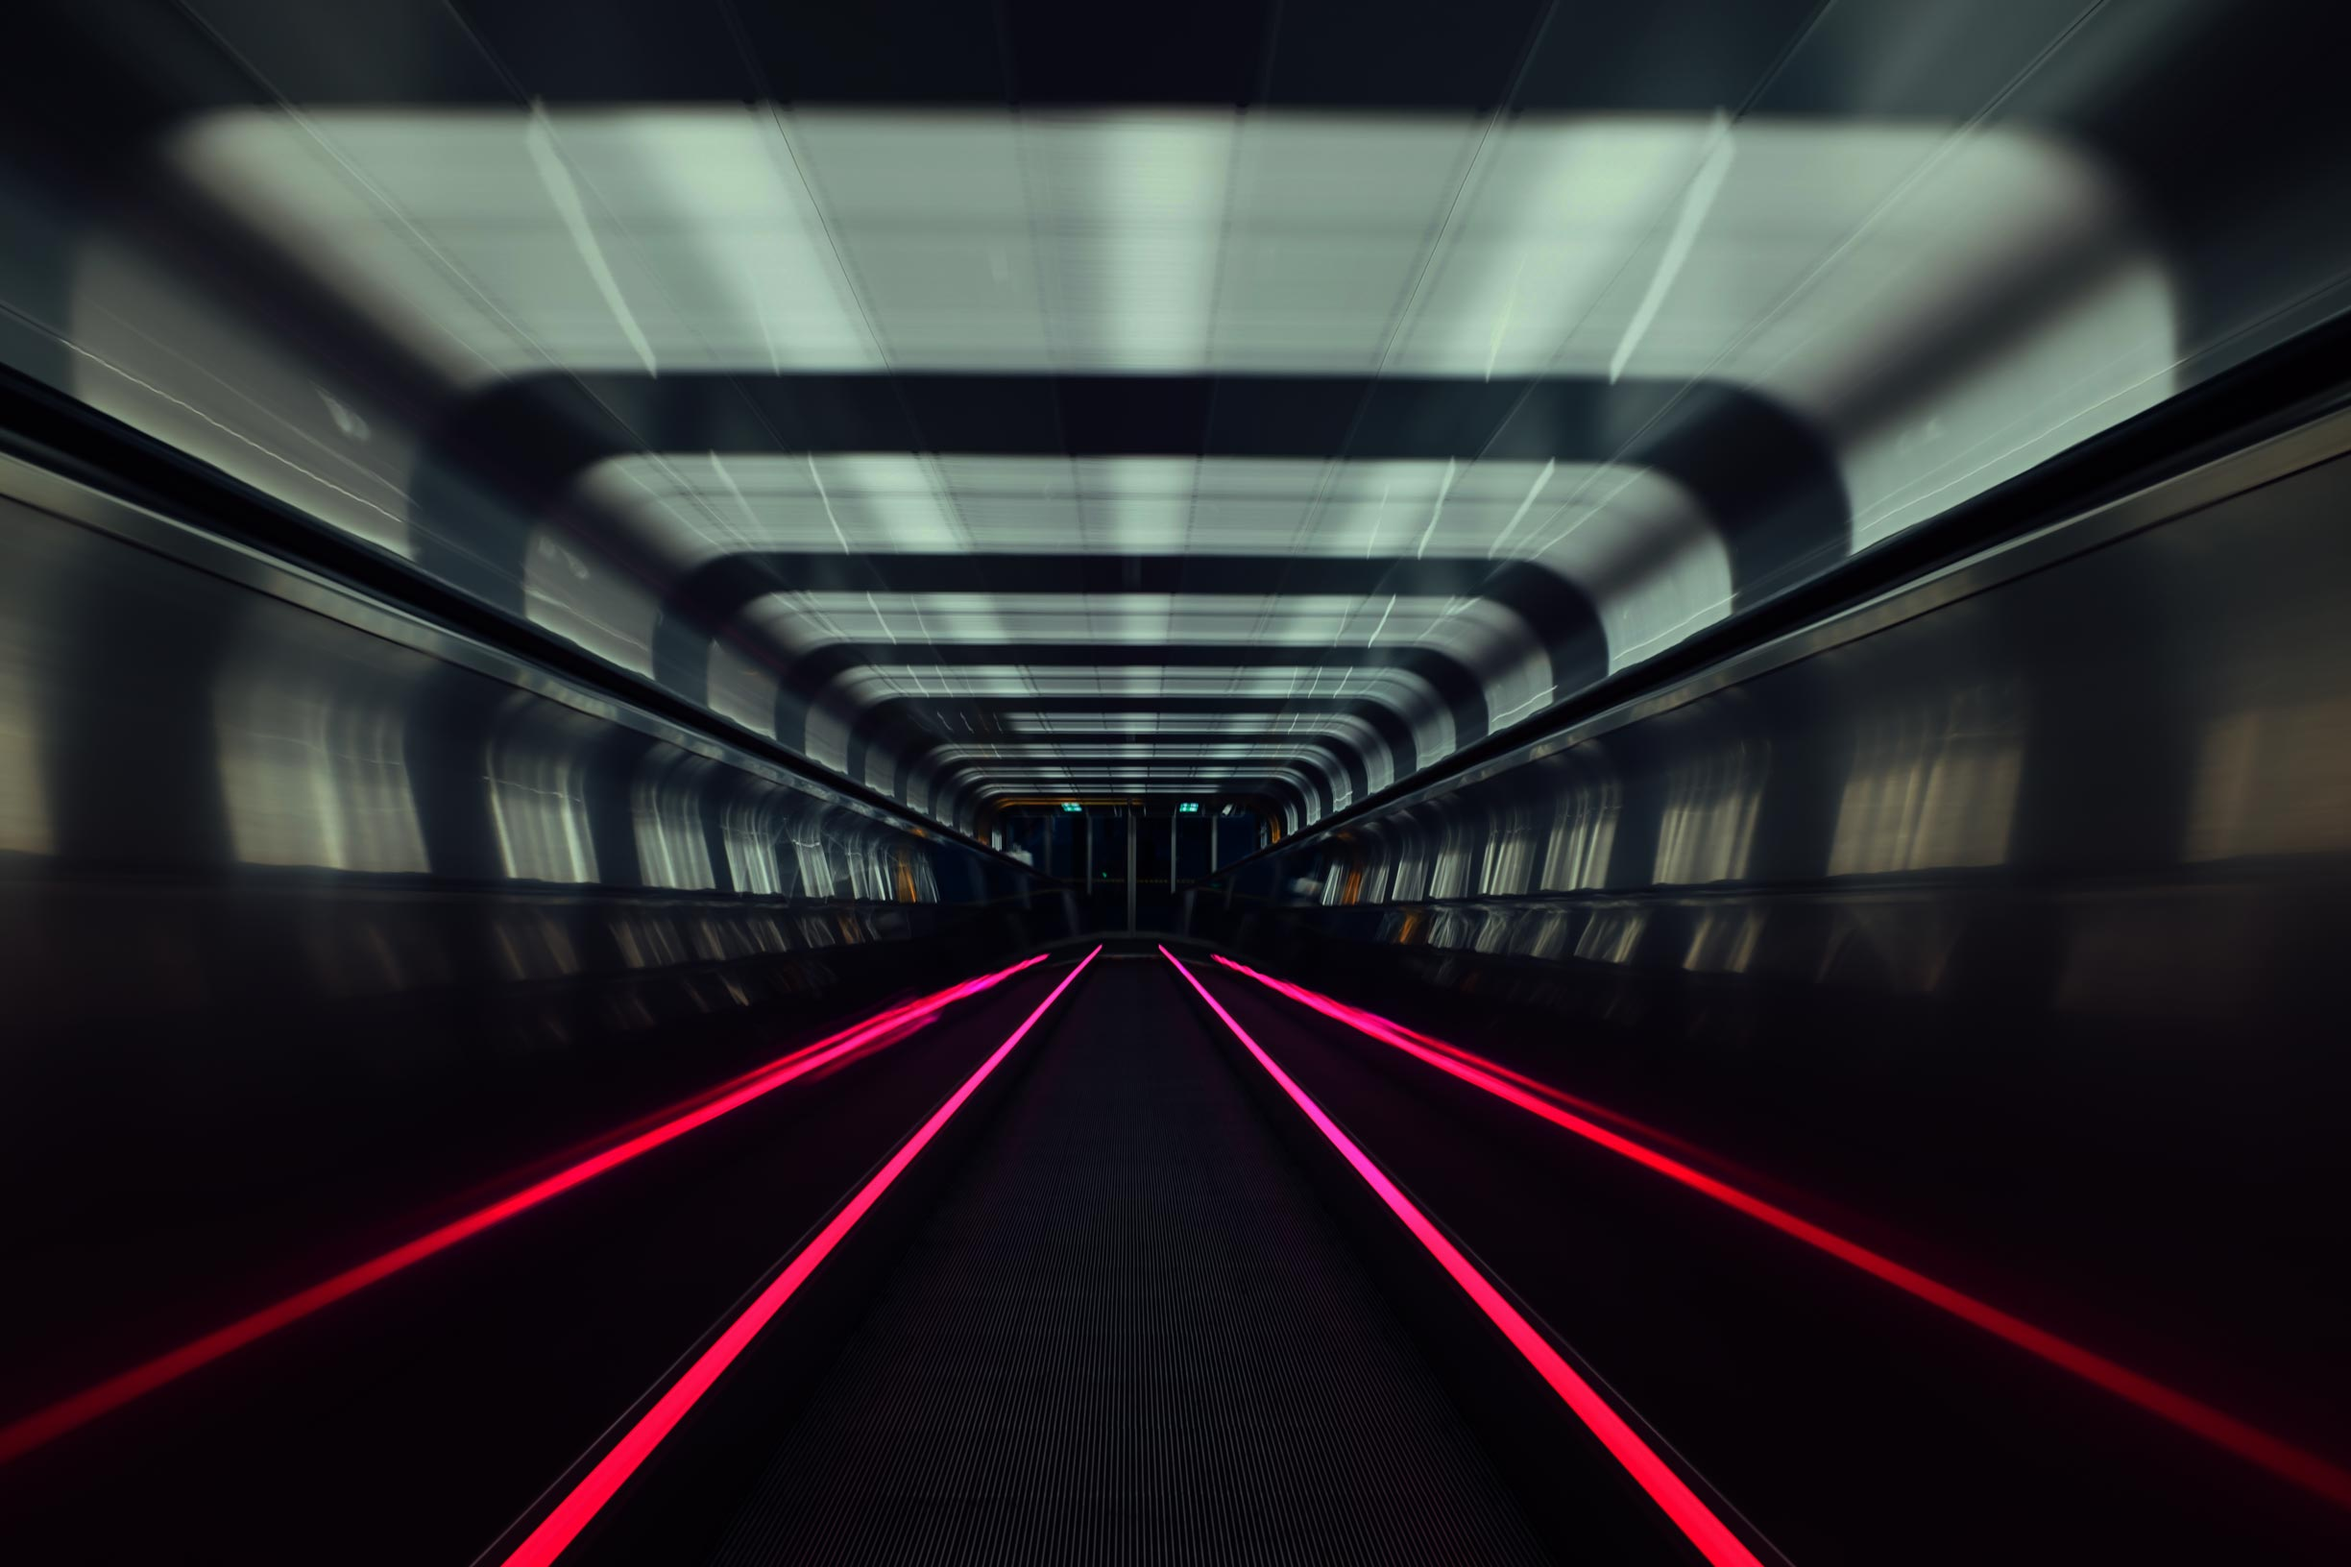
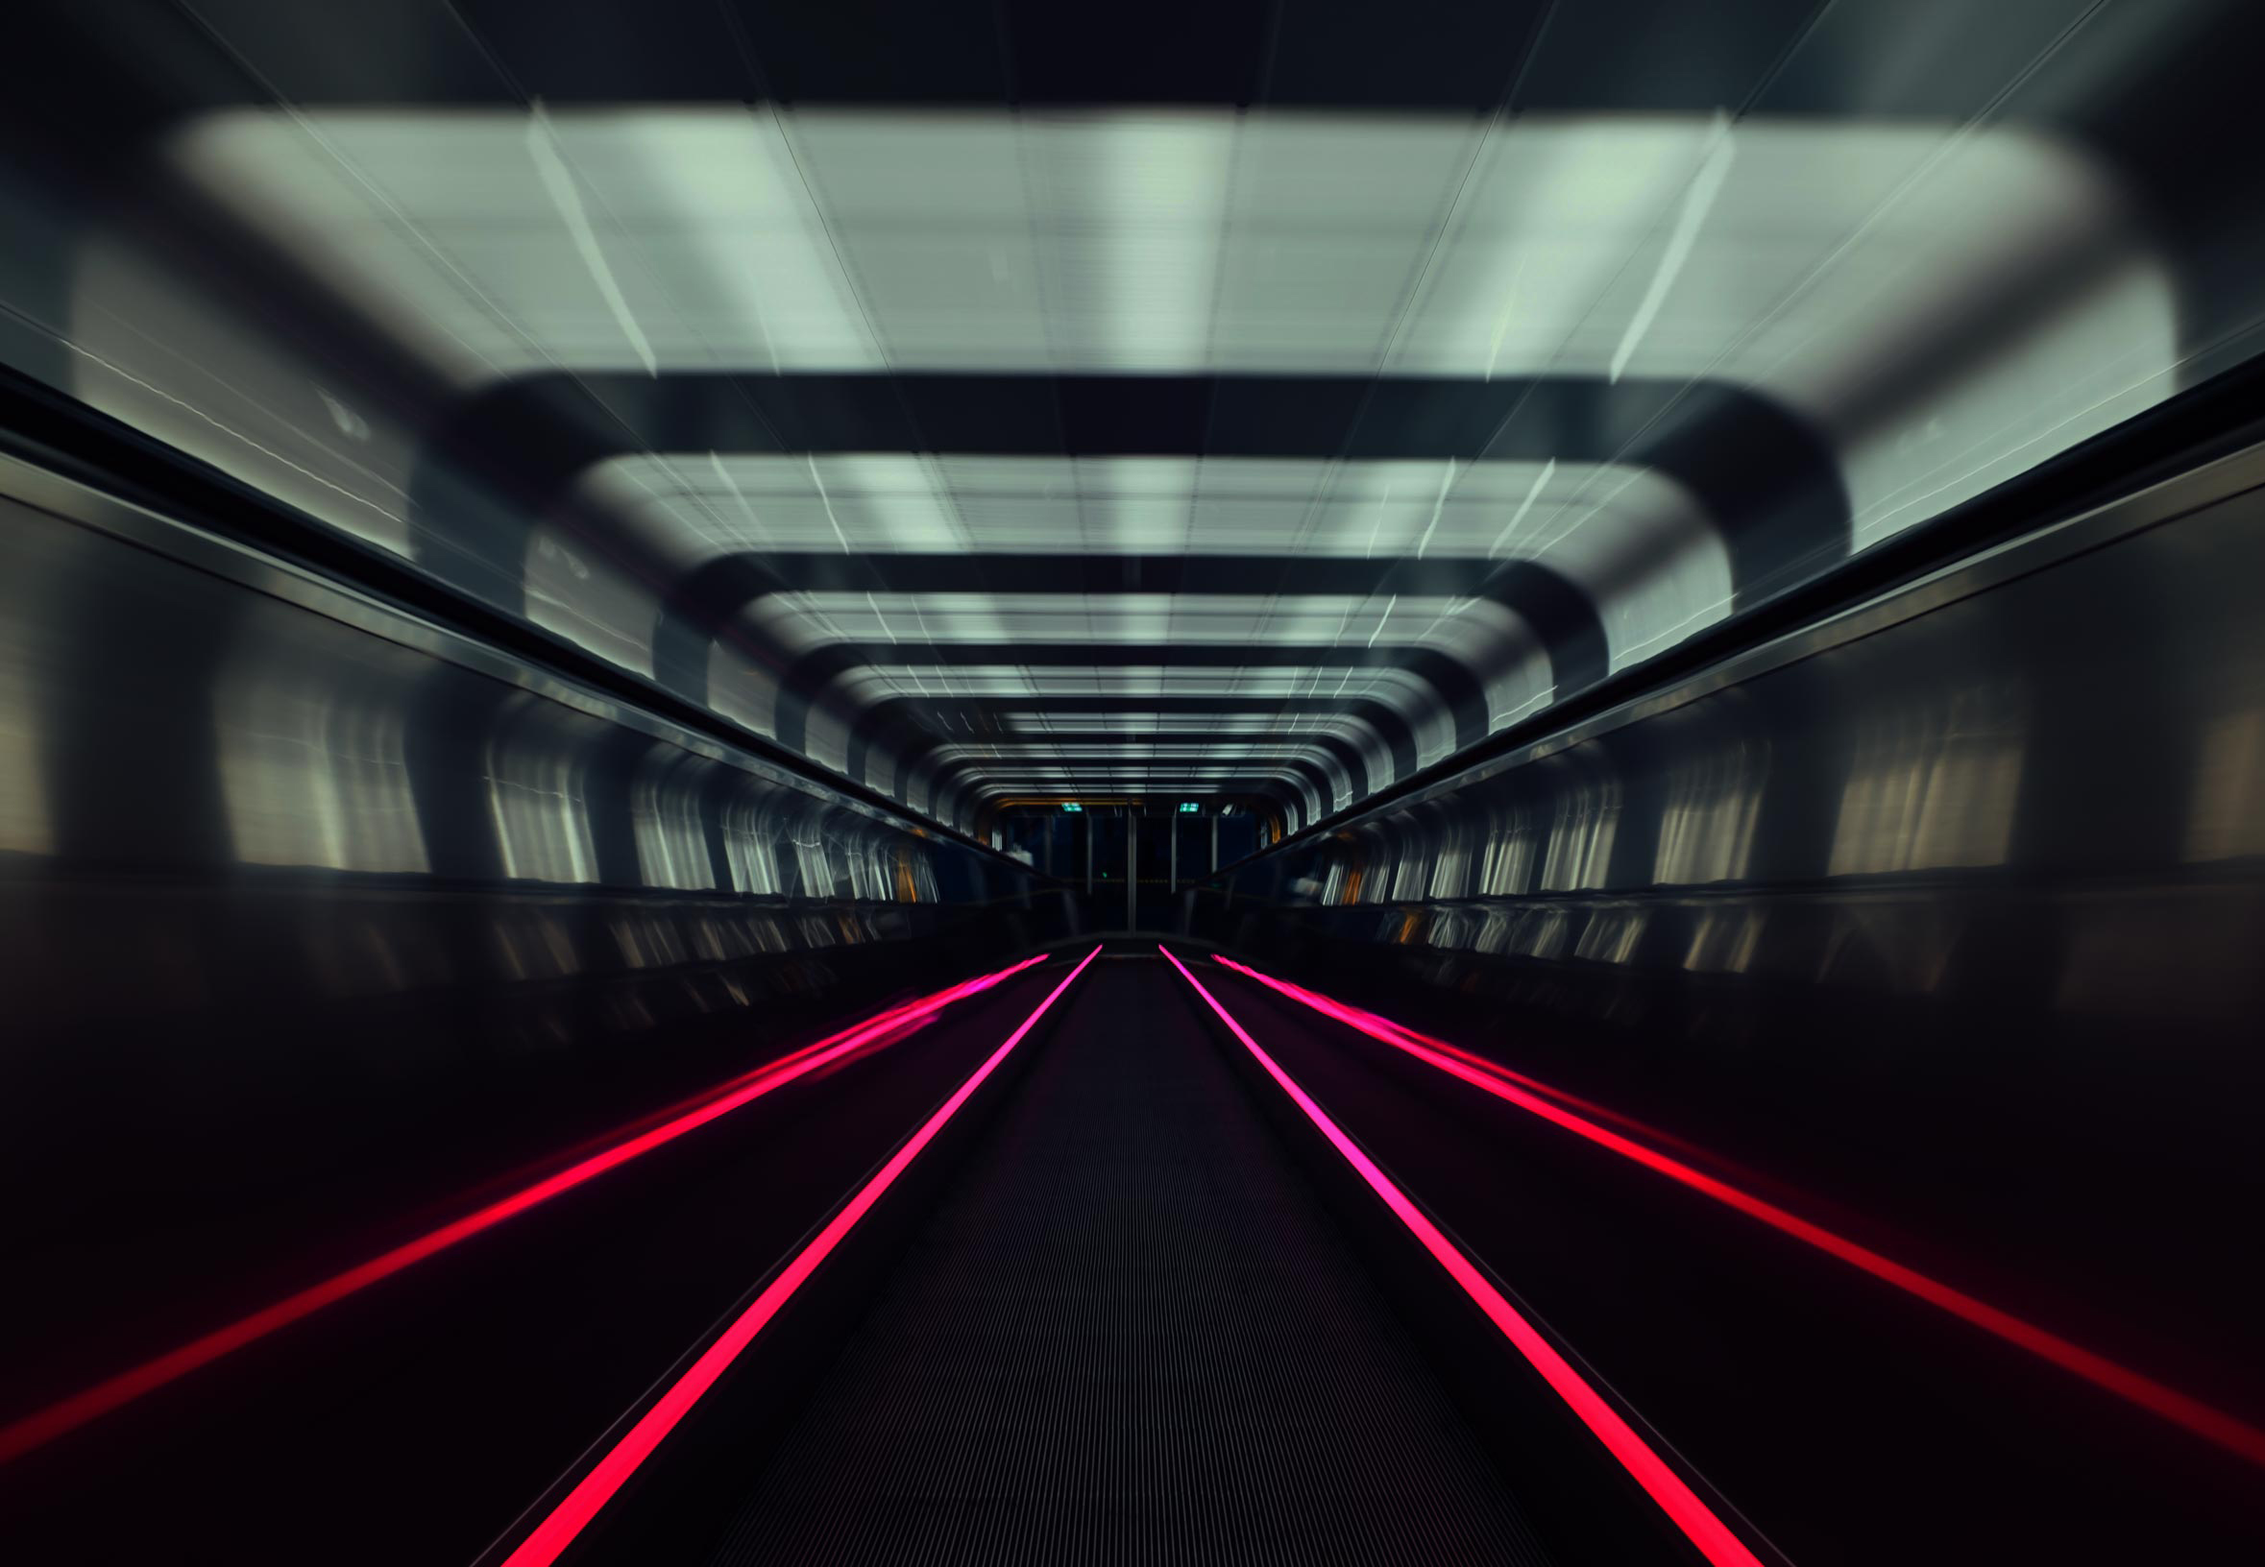
crop bg, title back to being big

diff --git a/pages/navbar.html b/pages/navbar.html
@@ -28,9 +28,9 @@
 <div class="container">
   <div class="row">
     <div class="col-md-12 text-center" id="hero">
-      <h2 class="text-inverse">
+      <h1 class="text-inverse">
         <b>slashrocket</b>
-      </h2>
+      </h1>
       <p class="text-inverse">
         <b>A community focused on learning and discussing web development</b>
       </p>

diff --git a/stylesheets/custom.css b/stylesheets/custom.css
@@ -81,6 +81,6 @@
   }
 }
 
-h2 {
-  letter-spacing: -2px;
+h1 {
+  letter-spacing: -5px;
 }
